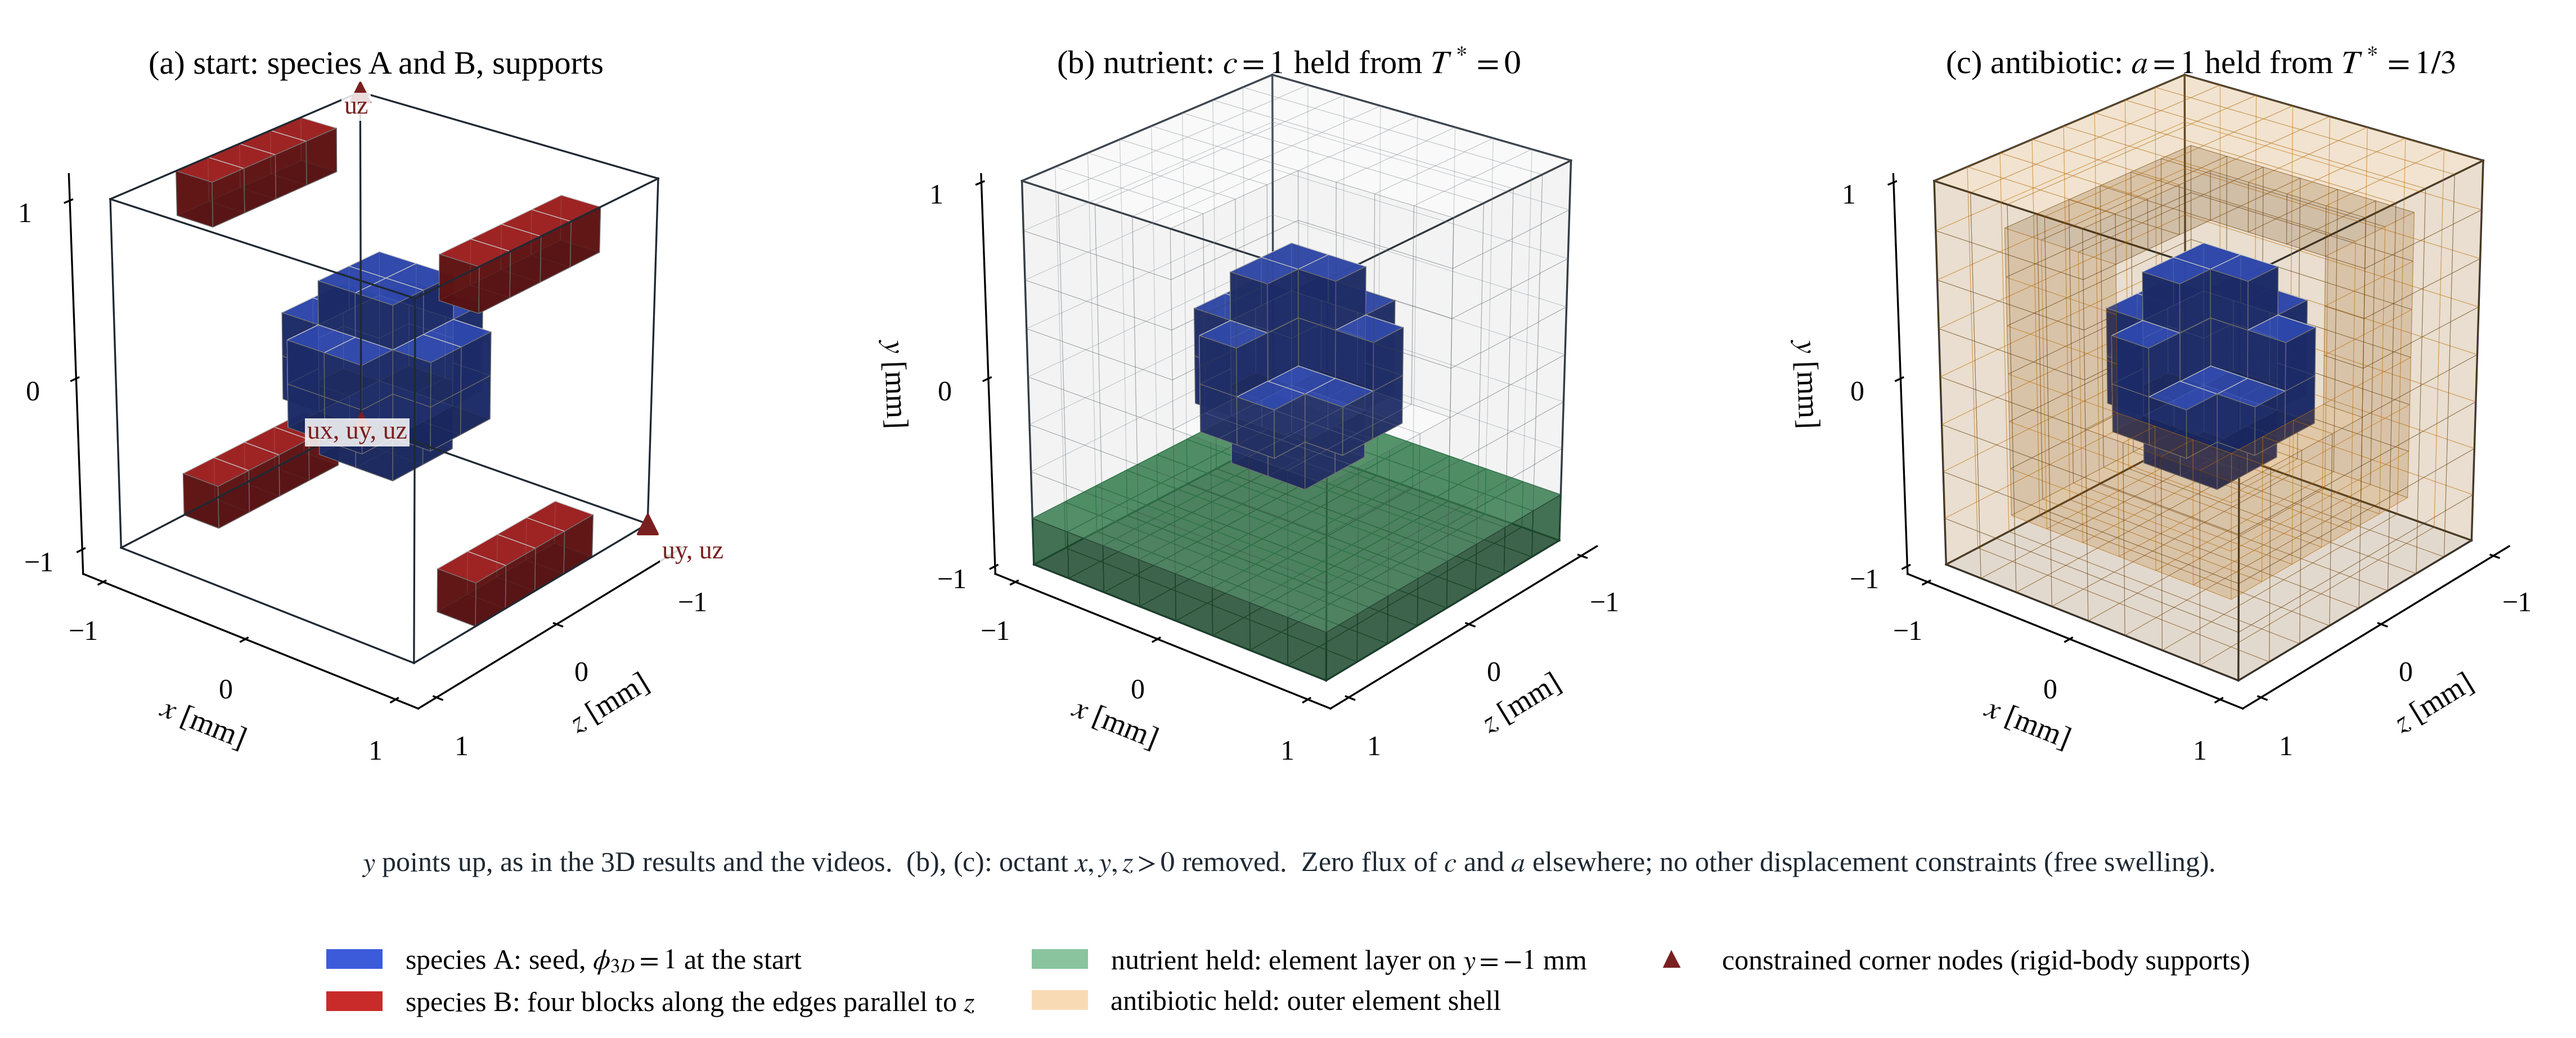
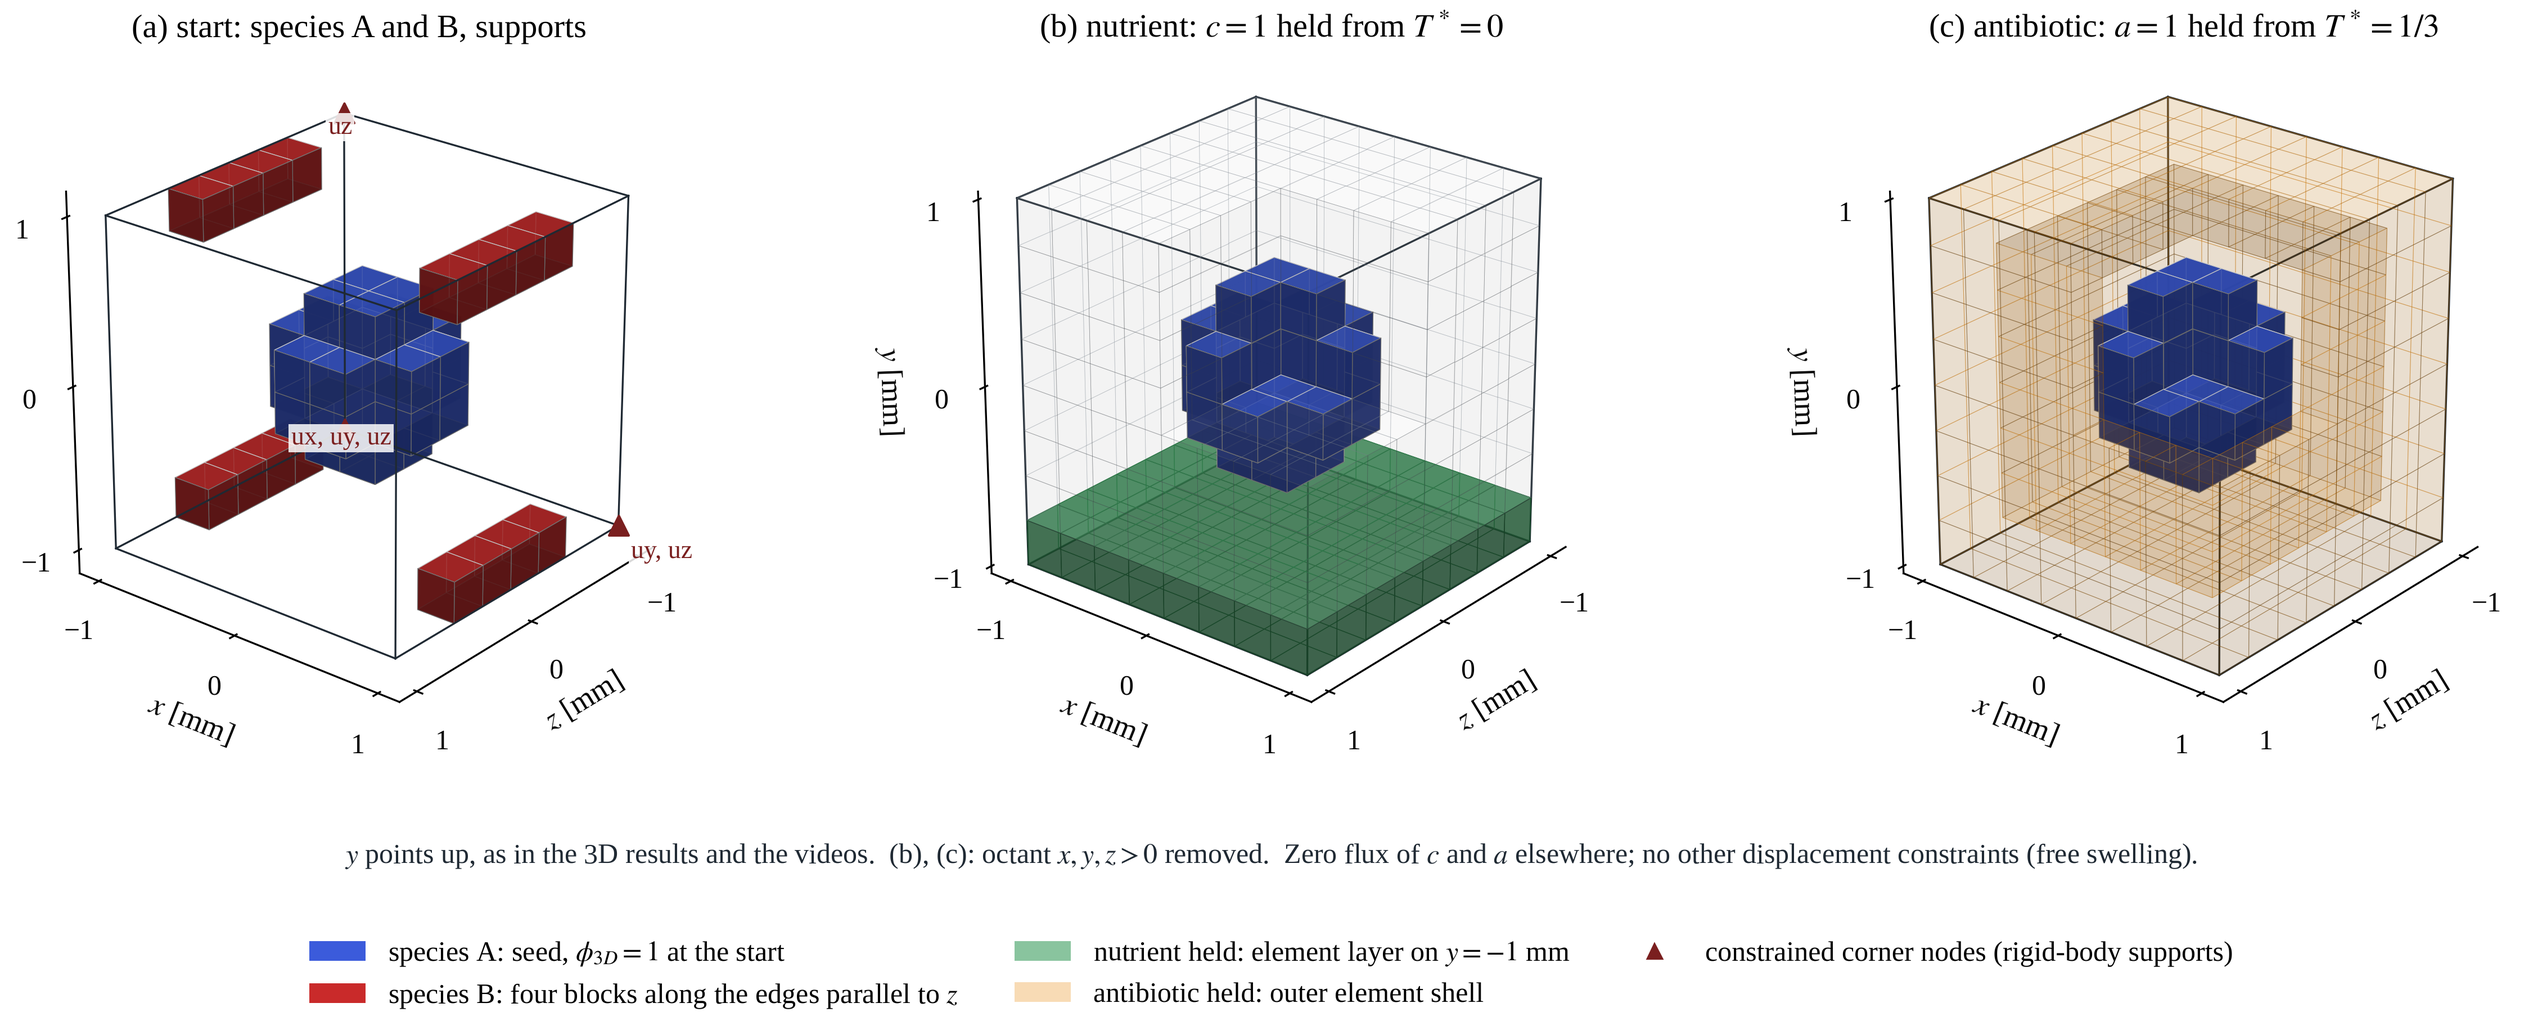
Set-up figure: titles clear of the cubes

diff --git a/ansys_usermat/apdl/fig_setup_separate_ab.py b/ansys_usermat/apdl/fig_setup_separate_ab.py
@@ -97,7 +97,7 @@ def main():
         else:
             ax.voxels(X, Y, Z, shell & ~front, facecolors=AB + "1a", edgecolors=AB + "66", linewidth=0.25)
             ax.voxels(X, Y, Z, seed & ~front, facecolors=seedc + "dd", edgecolors="white", linewidth=0.3)
-        ax.set_title(titles[p], fontsize=14, y=0.97)
+        ax.set_title(titles[p], fontsize=14, y=1.06)
     handles = [plt.Rectangle((0, 0), 1, 1, fc=seedc), plt.Rectangle((0, 0), 1, 1, fc=SPB),
                plt.Rectangle((0, 0), 1, 1, fc=NUTR, alpha=0.6), plt.Rectangle((0, 0), 1, 1, fc=AB, alpha=0.3),
                plt.Line2D([], [], marker="^", ls="", color=FIX)]
@@ -112,7 +112,7 @@ def main():
     fig.legend(handles, labels, loc="lower center", bbox_to_anchor=(0.5, 0.0), ncol=3, fontsize=12, frameon=False)
     fig.text(0.5, 0.155, "$y$ points up, as in the 3D results and the videos.  (b), (c): octant $x, y, z > 0$ removed.  Zero flux of $c$ and $a$ elsewhere; "
              "no other displacement constraints (free swelling).", ha="center", fontsize=12, color=INK)
-    fig.subplots_adjust(left=0.0, right=1.0, top=0.93, bottom=0.27, wspace=-0.05)
+    fig.subplots_adjust(left=0.0, right=1.0, top=0.9, bottom=0.27, wspace=-0.05)
     fig.savefig(OUT, dpi=300, bbox_inches="tight", pad_inches=0.05)
     fig.savefig(OUT.with_suffix(".pdf"), bbox_inches="tight", pad_inches=0.05)
     print("wrote", OUT, "| seed", int(seed.sum()), "| B", int(spb.sum()), "| nutrient", int(nut.sum()),
